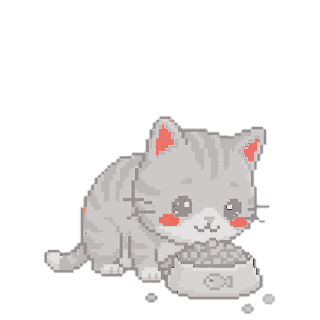
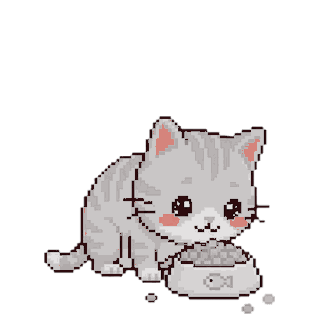
El michi blanco habia perdido los ojos
Al ampliar las caras se vio: en el blanco, los OJOS y el CONTORNO salian
grises. El contorno del michi no es negro puro sino marron muy oscuro,
asi que tiene saturacion alta y el filtro que protegia los grises no lo
cogia: se reescalaba con el pelaje y, en un rango claro, se aclaraba con
el. El gato se quedaba sin mirada.

Ahora se protege todo lo que este por debajo de 0,18 de luminosidad, que
es donde vive el dibujo: contorno, ojos y boca. No se tocan nunca.

Y los mofletes: eran el mismo rosa calido sobre un pelaje ya frio, y
cantaban como pegatinas. Se quedan, pero con la saturacion bajada (72%
en el gris, 66% en el blanco). Siguen siendo mofletes, ya no parecen
pegados encima.

Los dos fallos eran del tenido, no de los dibujos de Alberto: en el
naranja original estaban bien.

diff --git a/pixel/tenir_michi.py b/pixel/tenir_michi.py
@@ -11,14 +11,21 @@ el relieve vive en la LUMINOSIDAD. Se conserva la luz de cada pixel y se
 le quita el color. Las rayas del atigrado, las sombras y el volumen
 sobreviven intactos.
 
-Dos cosas que NO se tocan, y son las que le dan la cara:
+Tres cosas que NO siguen la regla del pelaje, y son las que le dan la
+cara:
 
-  - los mofletes rosas y el interior de las orejas. Son un rosa salmon a
-    8 grados de tono, o sea DENTRO del rango del naranja: si se filtra
-    solo por tono se tinen con el pelaje y el michi pierde la gracia.
-    Se separan porque son claros y saturados, mientras que el pelaje de
-    ese tono es oscuro (los ojos) o esta mas arriba (20-30 grados).
-  - los ojos y la boca, que ya son casi negros.
+  - El CONTORNO, los ojos y la boca. Son marron muy oscuro, no negro
+    puro, asi que tienen saturacion alta y al principio se tenian con el
+    pelaje: en el michi blanco los ojos salian GRISES y el contorno se
+    perdia. Se protege todo lo que este por debajo de LIMITE_OSCURO.
+  - Los mofletes rosas y el interior de las orejas. Son un rosa salmon a
+    8 grados de tono, o sea DENTRO del rango del naranja: filtrando solo
+    por tono se tinen con el pelaje y el michi pierde la gracia. Se
+    separan porque son claros Y saturados, mientras que el pelaje de ese
+    tono es oscuro (los ojos) o esta mas arriba (20-30 grados).
+  - Y esos mofletes, sobre un pelaje gris o blanco, cantan como
+    pegatinas: el rosa era calido y el gato ya no. Se les baja la
+    saturacion con `rubor`, sin quitarlos.
 
 Uso:  python pixel/tenir_michi.py
 """
@@ -39,9 +46,13 @@ DESTINO = "public/michi"
 # blanco subiendolo un poco: el blanco que hice primero (0.66-0.99)
 # deslumbraba y perdia el atigrado.
 VARIANTES = {
-    "gris":   {"luz": (0.12, 0.52), "sat": 0.03},
-    "blanco": {"luz": (0.56, 0.94), "sat": 0.035},
+    "gris":   {"luz": (0.12, 0.52), "sat": 0.03, "rubor": 0.72},
+    "blanco": {"luz": (0.56, 0.94), "sat": 0.035, "rubor": 0.66},
 }
+
+# Por debajo de esta luminosidad esta el dibujo: contorno, ojos y boca.
+# No se tocan nunca, o el michi pierde los ojos.
+LIMITE_OSCURO = 0.18
 
 
 def esMejilla(hd, l, s):
@@ -63,7 +74,7 @@ def tenir(im, cfg):
             if a < 200:
                 continue
             h, l, s = colorsys.rgb_to_hls(r / 255, g / 255, b / 255)
-            if s >= 0.12 and not esMejilla(h * 360, l, s):
+            if l > LIMITE_OSCURO and s >= 0.12 and not esMejilla(h * 360, l, s):
                 luces.append(l)
     if not luces:
         return im.copy()
@@ -76,8 +87,13 @@ def tenir(im, cfg):
                 op[x, y] = (0, 0, 0, 0)
                 continue
             h, l, s = colorsys.rgb_to_hls(r / 255, g / 255, b / 255)
-            if s < 0.12 or esMejilla(h * 360, l, s):
-                op[x, y] = (r, g, b, a)          # ojos y mofletes, intactos
+            if l <= LIMITE_OSCURO or s < 0.12:
+                op[x, y] = (r, g, b, a)          # contorno, ojos y boca
+                continue
+            if esMejilla(h * 360, l, s):
+                # el rosa se queda, pero mas apagado sobre pelaje frio
+                nr, ng, nb = colorsys.hls_to_rgb(h, l, s * cfg.get("rubor", 1))
+                op[x, y] = (round(nr * 255), round(ng * 255), round(nb * 255), a)
                 continue
             t = 0.5 if hi == lo else max(0.0, min(1.0, (l - lo) / (hi - lo)))
             destLo, destHi = cfg["luz"]
